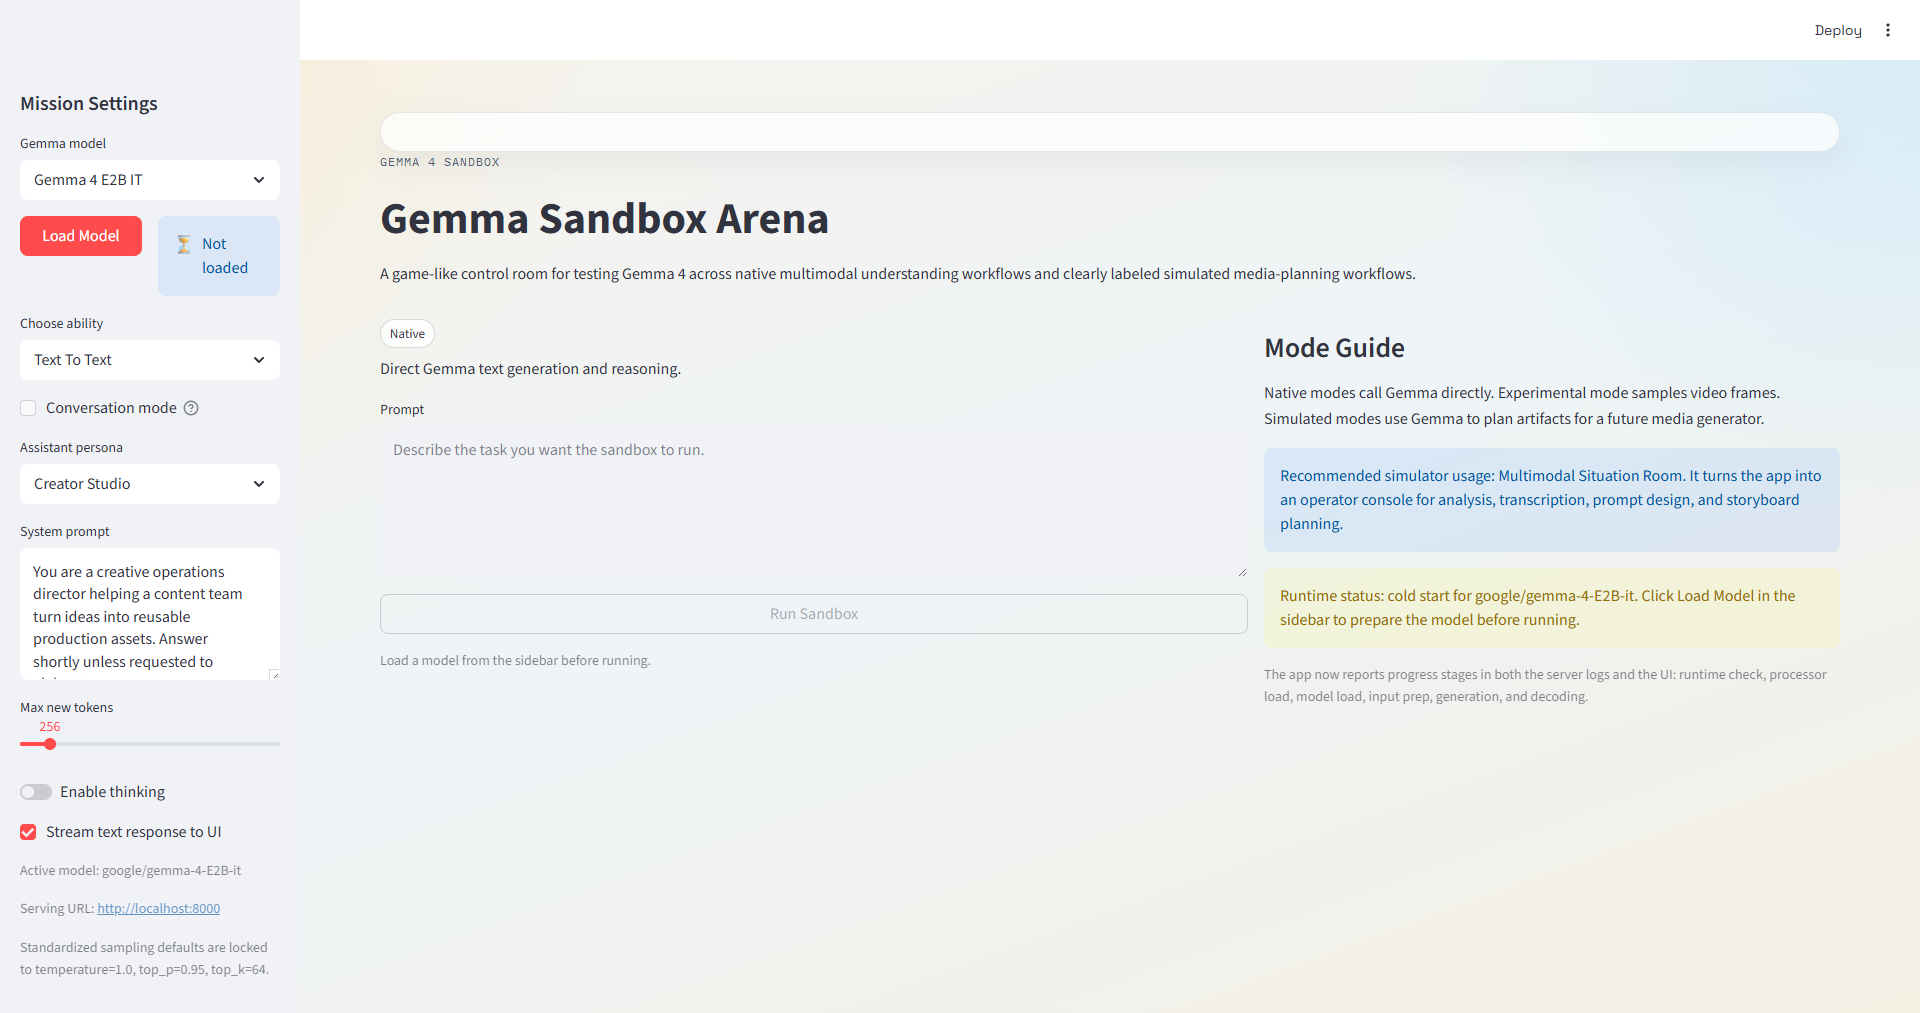
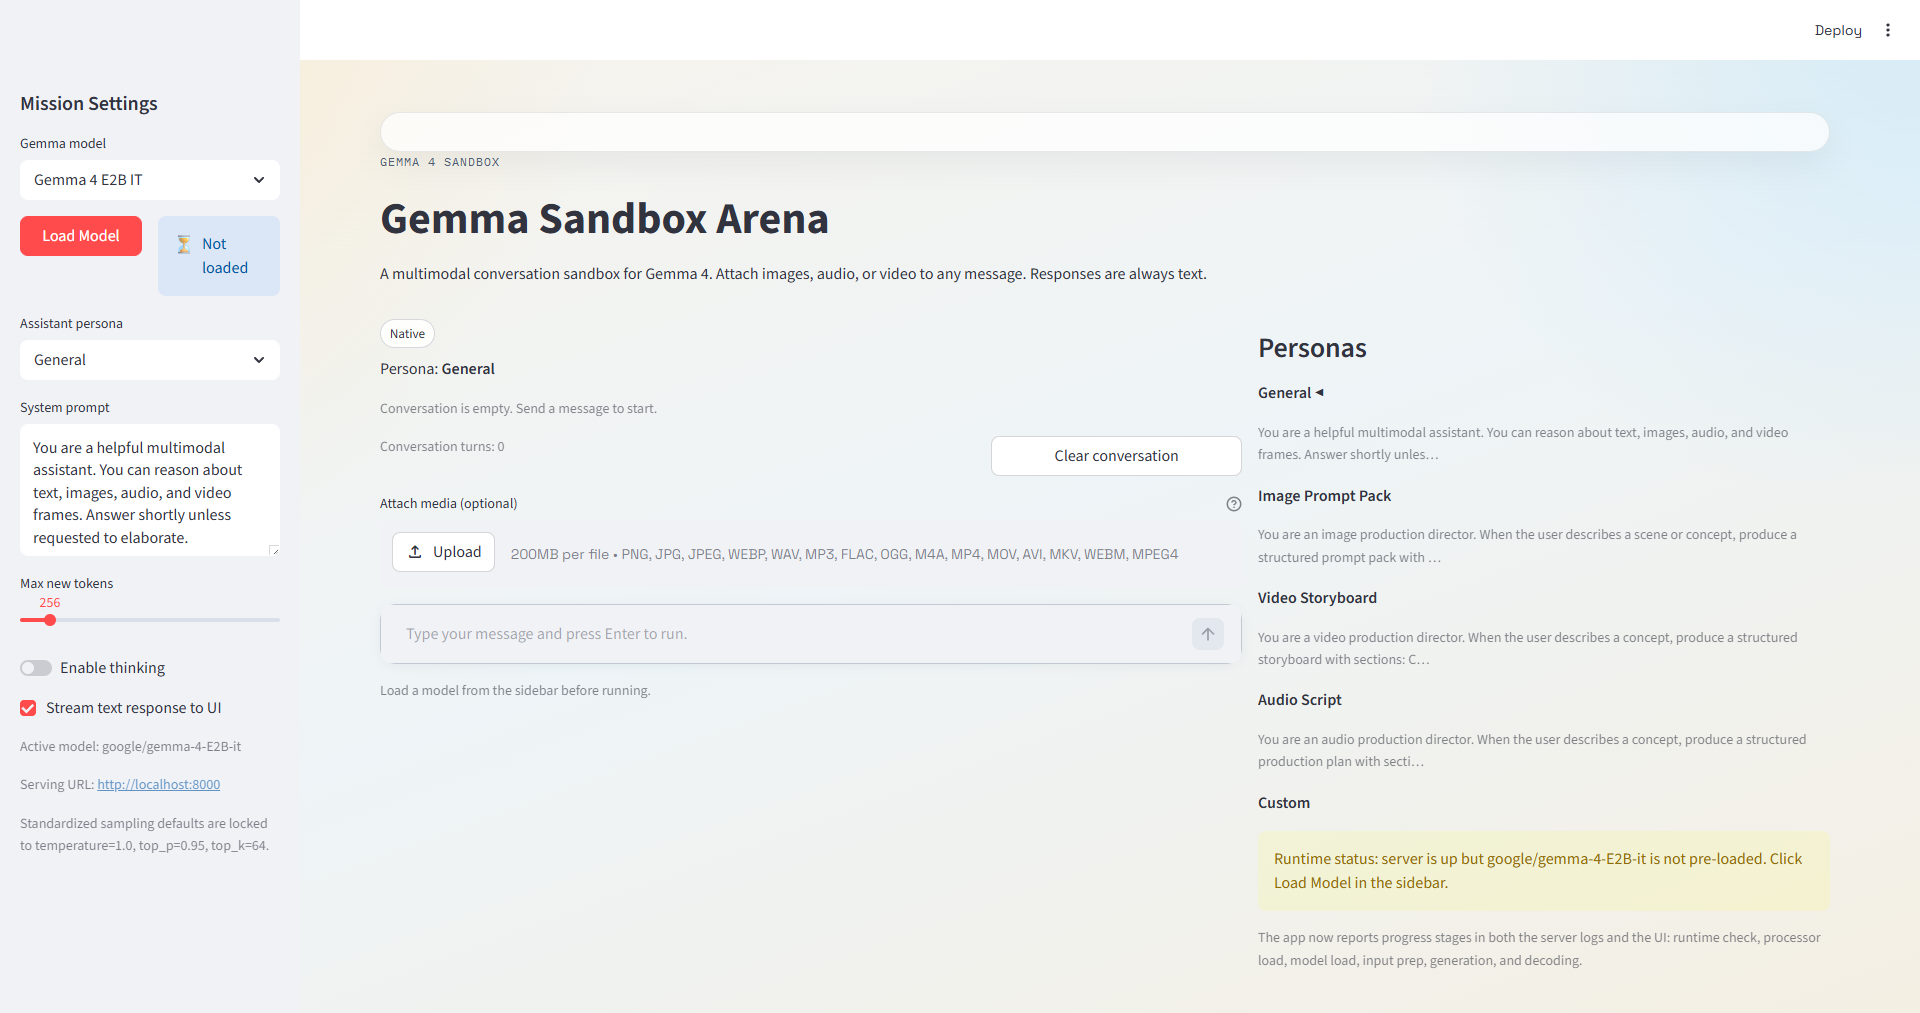
سؤقثثىساخفس

diff --git a/README.md b/README.md
@@ -8,7 +8,7 @@ The UI and model-serving backend communicate through a generic `POST /generate` 
 
 | Folder | Purpose | Entry point |
 |---|---|---|
-| `model-serving/` | FastAPI model-serving backend (loads Gemma, exposes `/generate` and job endpoints) | `uvicorn gemma_serving.app:app` |
+| `model-serving/` | FastAPI model-serving backend (loads Gemma, exposes `/generate` and job endpoints) | `start_server.ps1` |
 | `ui/` | Streamlit sandbox UI (calls model-serving over HTTP) | `streamlit run ui/app.py` |
 | `playground/` | Standalone demo and benchmark scripts | Individual `.py` files |
 
@@ -204,48 +204,52 @@ GEMMA_MAX_INPUT_TOKENS=16384
 
 ## Screenshots
 
-### Main View — Text-to-Text Mode
-Sidebar shows the **Load Model** button, **Assistant persona** dropdown, and editable **System prompt**. The Run Sandbox button stays disabled until a model is loaded.
+### Main View — General Persona
+Sidebar shows the **Load Model** button, **Assistant persona** dropdown, and editable **System prompt**. The chat input stays disabled until a model is loaded. The right panel lists all available personas with the active one marked.
 
-![Gemma Sandbox Arena — main view with text-to-text mode, Load Model button, and persona-driven system prompt](docs/screenshots/ui-main-view.png)
+![Gemma Sandbox Arena — main view with General persona, Load Model button, and system prompt](docs/screenshots/ui-main-view.png)
 
-### Conversation Mode
-Enabling **Conversation mode** replaces the prompt box with a chat input that keeps prior turns in context. The "Clear conversation" button resets the thread.
+### Image Prompt Pack Persona
+Switching the persona to **Image Prompt Pack** updates the system prompt to an image production director that generates structured prompt packs with Concept, Final Prompt, Negative Prompt, and Style Notes sections.
 
-![Gemma Sandbox Arena — conversation mode with chat input and turn counter](docs/screenshots/ui-conversation-mode.png)
+![Gemma Sandbox Arena — Image Prompt Pack persona with production-ready system prompt](docs/screenshots/ui-persona-image-prompt.png)
 
-### Image-to-Text Mode with Upload
-Switching the ability to **Image To Text** shows a file uploader for PNG/JPG/JPEG/WEBP images alongside the prompt.
+### Video Storyboard Persona
+The **Video Storyboard** persona primes Gemma as a video production director, producing structured storyboards with Shot Lists, Motion Notes, and Audio Notes.
 
-![Gemma Sandbox Arena — image-to-text mode with file upload](docs/screenshots/ui-image-mode.png)
+![Gemma Sandbox Arena — Video Storyboard persona with storyboard system prompt](docs/screenshots/ui-persona-video-storyboard.png)
 
 ## Tests
 
-All tests pass on Python 3.9+.
+All tests pass on Python 3.11.
 
-**UI tests** (5/5 passed):
+**UI tests** (7/7 passed):
 ```
-tests/test_prompts.py::test_text_prompt_returns_user_input              PASSED
 tests/test_prompts.py::test_persona_presets_include_concise_instruction PASSED
-tests/test_prompts.py::test_simulation_prompt_marks_non_native_mode     PASSED
-tests/test_prompts.py::test_ability_specs_label_simulated_modes         PASSED
-tests/test_sandbox_service.py::test_text_run_includes_prior_conversation_messages PASSED
+tests/test_prompts.py::test_planning_personas_exist                    PASSED
+tests/test_prompts.py::test_image_persona_mentions_sections            PASSED
+tests/test_prompts.py::test_storyboard_persona_mentions_sections       PASSED
+tests/test_sandbox_service.py::test_run_includes_prior_turns_in_messages PASSED
+tests/test_sandbox_service.py::test_image_attachment_is_included_in_current_turn PASSED
+tests/test_sandbox_service.py::test_system_prompt_from_config_is_used  PASSED
 ```
 
-**Model-serving tests** (14/14 passed — tests requiring `torch`/GPU skipped locally):
+**Model-serving tests** (24/24 passed):
 ```
+tests/test_api.py::test_health_endpoint_reports_ok                     PASSED
+tests/test_api.py::test_rewrite_job_completes                          PASSED
+tests/test_api.py::test_rewrite_cache_returns_immediate_success        PASSED
+tests/test_benchmark_targets.py::test_benchmark_listing_rewrite_uses_scenario_metadata PASSED
+tests/test_benchmark_targets.py::test_benchmark_listing_rewrite_derives_model_id_from_label PASSED
 tests/test_benchmarking.py::test_run_benchmark_returns_summary          PASSED
 tests/test_benchmarking.py::test_load_scenarios_parses_request_mode     PASSED
 tests/test_benchmarking.py::test_simulate_capacity_returns_e2b_and_e4b  PASSED
-tests/test_planning.py::test_traffic_profile_exposes_concurrency        PASSED
-tests/test_planning.py::test_estimate_concurrent_requests               PASSED
-tests/test_planning.py::test_estimate_worker_throughput                 PASSED
-tests/test_planning.py::test_estimate_required_workers_rounds_up        PASSED
-tests/test_planning.py::test_estimate_cost_per_request                  PASSED
-tests/test_planning.py::test_estimate_concurrent_requests_validates_inputs PASSED (x3)
-tests/test_planning.py::test_estimate_worker_throughput_validates_latency PASSED
-tests/test_planning.py::test_estimate_required_workers_validates_inputs  PASSED
-tests/test_planning.py::test_estimate_cost_per_request_validates_inputs  PASSED
+tests/test_gateway.py::test_rewrite_listing_uses_gemma_json_response    PASSED
+tests/test_gateway.py::test_extract_attributes_limits_images_and_returns_metadata PASSED
+tests/test_gemma_service.py::test_generate_simple_text                  PASSED
+tests/test_gemma_service.py::test_generate_text_matches_gemma_getting_started_flow PASSED
+tests/test_gemma_service.py::test_generate_text_one_shot_skips_streamer PASSED
+tests/test_planning.py (11 tests)                                       PASSED
 ```
 
 ## Quick Start
@@ -272,28 +276,16 @@ cp ui/.env.example ui/.env
 ```
 
 ```powershell
-# Start the model-serving API (terminal 1) — Windows PowerShell
-$env:PYTHONPATH = "C:\path\to\ai-workbench\model-serving\src"
-venv\Scripts\python.exe -m uvicorn gemma_serving.app:app --host 127.0.0.1 --port 8000 `
-  --app-dir model-serving\src
-```
-
-```bash
-# Start the model-serving API (terminal 1) — Linux/macOS
-export PYTHONPATH=model-serving/src
-venv/bin/python -m uvicorn gemma_serving.app:app --host 127.0.0.1 --port 8000
+# Start the model-serving API (terminal 1)
+cd model-serving
+.\start_server.ps1
 ```
 
 ```powershell
-# Start the UI (terminal 2) — Windows PowerShell
-$env:PYTHONPATH = "C:\path\to\ai-workbench\ui\src"
-cd ui && .\..\venv\Scripts\streamlit.exe run app.py
-```
-
-```bash
-# Start the UI (terminal 2) — Linux/macOS
-export PYTHONPATH=ui/src
-cd ui && ../venv/bin/streamlit run app.py
+# Start the UI (terminal 2)
+cd ui
+$env:PYTHONPATH = "src"
+streamlit run app.py
 ```
 
 ## Serving Research Toolkit
